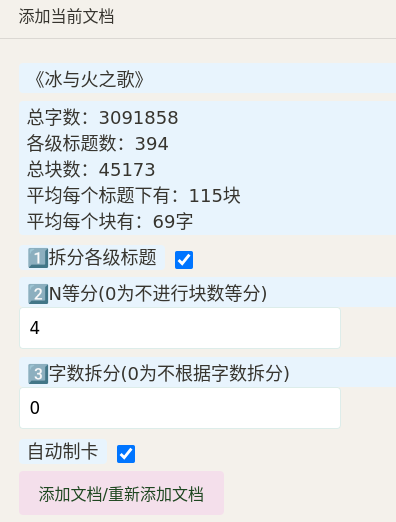
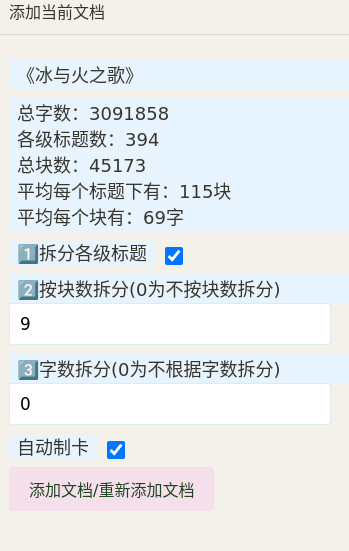
split by blocks

Changed region(s): [[0.0287, 0.1226, 0.8023, 0.9808], [0.0287, 0.0, 0.3152, 0.0613]]

diff --git a/src/Progressive.ts b/src/Progressive.ts
@@ -140,7 +140,7 @@ class Progressive {
     private async addProgressiveReadingDialog(bookID: string, bookName: string) {
         const autoCardID = utils.newID();
         const titleSplitID = utils.newID();
-        const DividePartsID = utils.newID();
+        const BlockNumID = utils.newID();
         const LengthSplitID = utils.newID();
         const btnSplitID = utils.newID();
         const statisticDivID = utils.newID();
@@ -155,8 +155,8 @@ class Progressive {
                 <span class="prog-style__id">1⃣${this.plugin.i18n.splitByHeadings}</span>
                 <input type="checkbox" id="${titleSplitID}" class="prog-style__checkbox"/>
                 <div class="fn__hr"></div>
-                <div class="prog-style__id">2⃣N等分(0为不进行块数等分)</div>
-                <input type="text" id="${DividePartsID}" class="prog-style__input"/>
+                <div class="prog-style__id">2⃣按块数拆分(0为不按块数拆分)</div>
+                <input type="text" id="${BlockNumID}" class="prog-style__input"/>
                 <div class="fn__hr"></div>
                 <div class="prog-style__id">3⃣${this.plugin.i18n.splitByWordCount}</div>
                 <input type="text" id="${LengthSplitID}" class="prog-style__input"/>
@@ -168,7 +168,7 @@ class Progressive {
                 <div class="fn__hr"></div>
             </div>`,
             width: events.isMobile ? "92vw" : "560px",
-            height: "540px",
+            height: "640px",
         });
 
         const statisticDiv = dialog.element.querySelector("#" + statisticDivID) as HTMLDivElement;
@@ -206,8 +206,9 @@ class Progressive {
             }
         });
 
-        const DividePartsInput = dialog.element.querySelector("#" + DividePartsID) as HTMLInputElement;
-        DividePartsInput.value = "4";
+        const suggestBlockNum = `${Math.ceil(600 / (wordCount / contentBlocks.length))}`;
+        const BlockNumInput = dialog.element.querySelector("#" + BlockNumID) as HTMLInputElement;
+        BlockNumInput.value = suggestBlockNum;
 
         const LengthSplitInput = dialog.element.querySelector("#" + LengthSplitID) as HTMLInputElement;
         LengthSplitInput.value = "0";
@@ -220,9 +221,9 @@ class Progressive {
                 return;
             }
 
-            const divideParts = Number(DividePartsInput.value.trim());
-            if (!utils.isValidNumber(divideParts)) {
-                DividePartsInput.value = "4";
+            const blockNumber = Number(BlockNumInput.value.trim());
+            if (!utils.isValidNumber(blockNumber)) {
+                BlockNumInput.value = suggestBlockNum;
                 return;
             }
 
@@ -239,10 +240,10 @@ class Progressive {
             } else {
                 groups = [contentBlocks];
             }
-            if (divideParts > 0) {
+            if (blockNumber > 0) {
                 const tmp: help.WordCountType[][] = [];
                 for (const group of groups) {
-                    tmp.push(...utils.divideArrayIntoParts(group, divideParts));
+                    tmp.push(...utils.chunks(group, blockNumber));
                 }
                 groups = tmp;
             }

diff --git a/README_zh_CN.md b/README_zh_CN.md
@@ -16,17 +16,17 @@
 
 ![Alt text](assets/addDoc.png)
 
-这里有三种拆分方式，根据`标题`、内容`块数`量等分N份、根据`字数`，可以同使用，也可以单独使用，如图：
+这里有三种拆分方式，`标题`、内容`块数`、`字数`，可以同使用，也可以单独使用，如图：
 
 ![Alt text](assets/split.png)
 
-拆分方式组合使用时，是有顺序的，从上往下。
+拆分方式组合使用时，是有顺序的，从上往下，先按照标题拆分，然后将标题拆分出来的每一份都看做是一个新文档，再按照块数拆分，最后在块数拆分的结果上，按照字数拆分。
 
-举例：如果三种拆分同时启用，根据标题拆分成两份，块数拆分则分别对这两份进行N等分。如果N=4，那么现在我们有2*4=8分。如果根据字数为300再拆分，那么这8份每一份都会按照300字一组进行再拆分。
+通常使用方式是：标题+块数、标题+字数。
 
-如果文档比较大，如图中的文档，三百万字，根据字数`分片`起来会比较久。可以使用根据标题以及内容块数量来N等分的组合方式。
+如果文档比较大，如图中的文档，三百万字，根据字数`分片`起来会比较久。可以使用标题+块数的组合方式。
 
-如果对字数的控制要求比较高，可以使用按照字数来拆分。
+如果对字数的控制要求比较高，可以使用按照标题+字数来拆分。
 
 插件的`分片`操作不会修改原文，也不会新建其他文档，只是读取、统计、保存。
 
